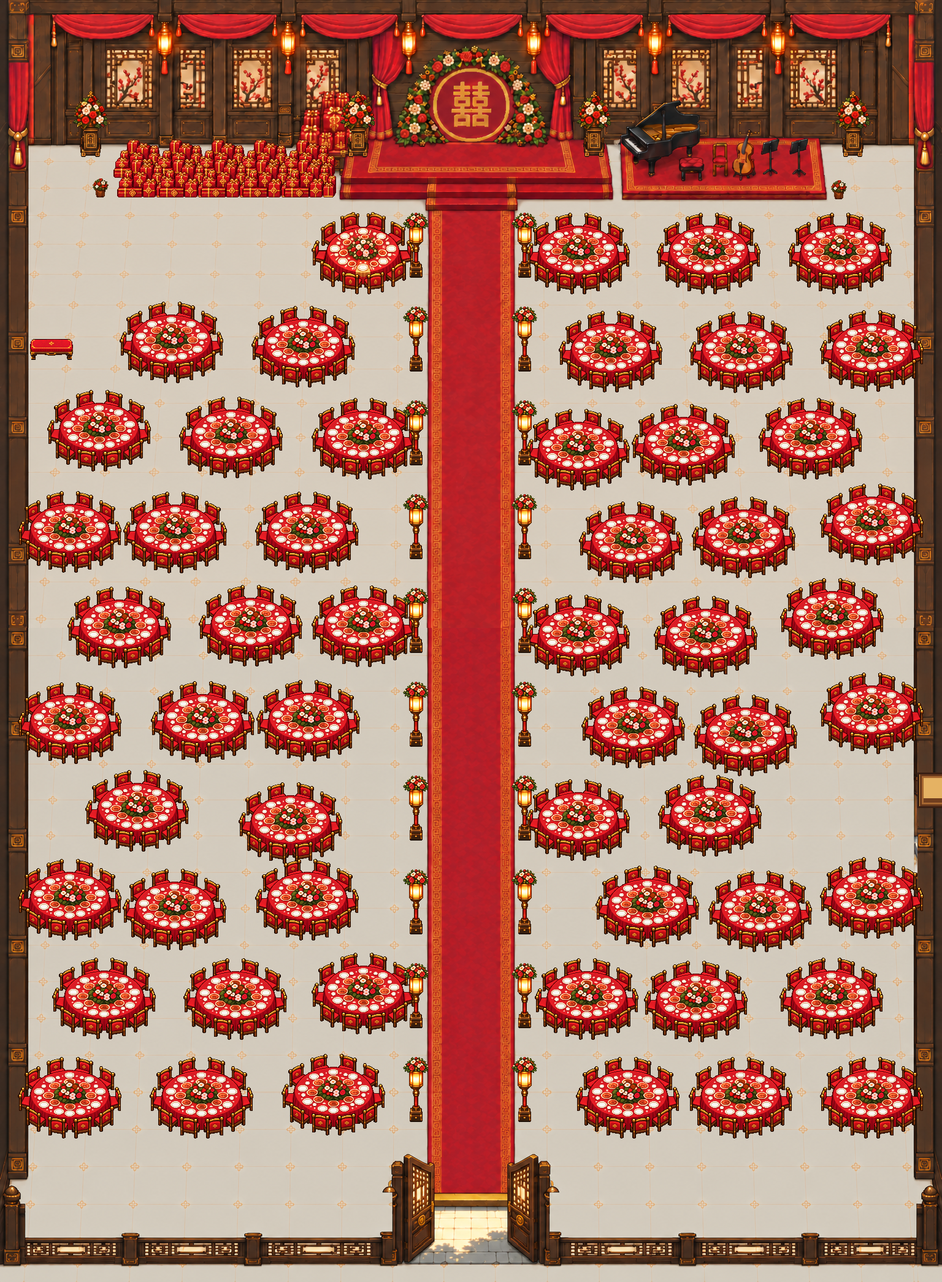
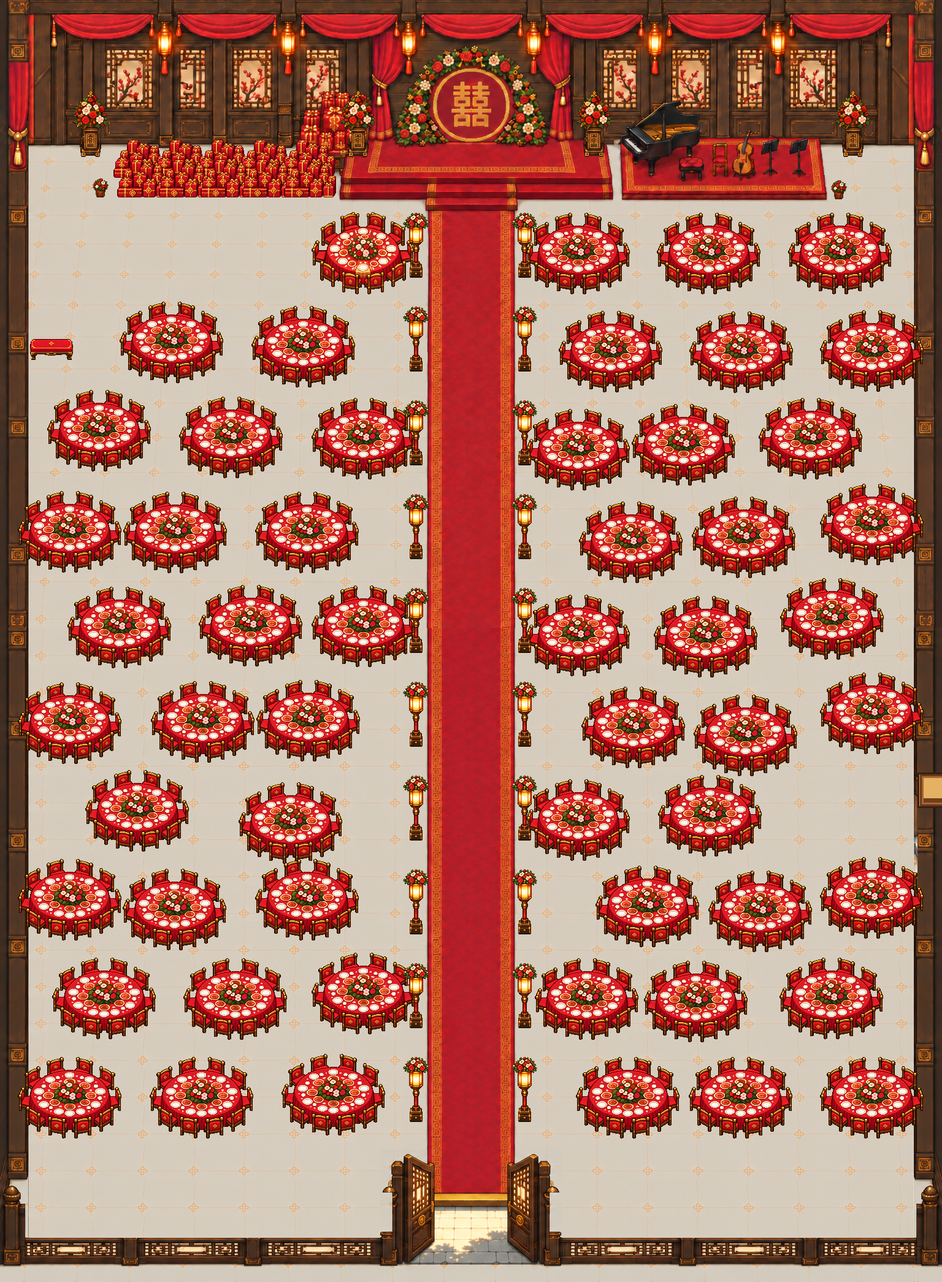
南边 BG02 换 v2（修接缝）、花瓣 FX01 和彩纸 FX02 换 v2（画满格子）：阿鱼 10/2「都行」、03 量过全对；sha256 跟交付.json 对上；gen_specs 重出场景（走路格子跟原来逐格一样，北南接缝 3.3→2.0）；零件总表这三行改「阿鱼点头」。客户端 45 个全过

diff --git a/godot/tools/layout_55/build_graybox55.py b/godot/tools/layout_55/build_graybox55.py
@@ -61,7 +61,7 @@ if ART_SET == "b55s":
     # 10/2 GPT 照色块画的南边 B55S-BG02（1536×1067，整厅 y 1024～2091）：北边 1024 往南直接接它，中间不再留一截地砖；
     # 大门、栏杆、东侧门画在整厅同一个位置（02 拿摆位表的框套过：门柱、门洞、门槛、栏杆、东侧门 1260～1318 都对上），
     # 所以下面 SOUTH_* 那些坐标照旧（还是按「南边那张上沿 = 厅长 − 1024」算的整厅坐标）。W01 现在被南边那张整个盖住，铺不铺都看不见
-    ART_SOUTH = os.path.join(ART, "base_banquet55s_south_v1.png")
+    ART_SOUTH = os.path.join(ART, "base_banquet55s_south_v2.png")   # 10/2 BG02 v2（修接缝，阿鱼「都行」）
 ART_WALL_W = os.path.join(ART, "tex_banquet55_wall_west_v1.png")   # 中间那截的竖墙，40×240 一段段接
 ART_WALL_E = os.path.join(ART, "tex_banquet55_wall_east_v1.png")
 if ART_SET == "b55s":

diff --git a/docs/零件总表.md b/docs/零件总表.md
@@ -55,7 +55,7 @@
 | 编号 | 名字 | 文件 | 尺寸 | 状态 | 进游戏 | 长什么样 | 依哪条规矩 |
 | --- | --- | --- | --- | --- | --- | --- | --- |
 | B55S-BG01 | 现场版北边背景 | `base_banquet55_scene_v1.png` | 1536×1024 | 进游戏 | 第 54 版 | 照色块图画的北边那块：北墙、帐幔、挂灯、花窗、花拱囍字、婚礼台台阶、红毯、乐队台和钢琴、礼物架、两边墙、地砖；没有桌椅、灯、花架、人；不要对联（阿鱼 10/2） | 墙和地面的边照现状图不挪（走路格子照它算）；背景宽 1536 |
-| B55S-BG02 | 现场版南边背景 | `base_B55S-BG02_v1.png` | 1536×1067 | 进游戏 | 第 54 版 | 整厅 y 1024～2091：两边直墙、东侧门、红毯、大门门槛、两段栏杆、跟北边一样的地砖；没有桌椅灯人 | 上沿跟 BG01 接得上看不出缝；墙 40 宽笔直；任务 `claude-任务-宴会厅南-照色块画.md` |
+| B55S-BG02 | 现场版南边背景 | `base_B55S-BG02_v2.png` | 1536×1067 | 阿鱼点头 | 第 54、55 版是 v1；v2 下一版进（阿鱼 10/2「都行」，03 量过） | 整厅 y 1024～2091：两边直墙、东侧门、红毯、大门门槛、两段栏杆、跟北边一样的地砖；没有桌椅灯人 | 上沿跟 BG01 接得上看不出缝；墙 40 宽笔直；任务 `claude-任务-宴会厅南-照色块画.md` |
 | B55S-T01 | 现场版圆桌 | `blk_banquet55s_table_v1.png` | 180×150 | 进游戏 | 第 54 版 | 圆桌连一圈 10 把空椅子、桌上的菜；画满框，椅子位置跟现在游戏里的桌子一样（人要坐上去） | 零件硬边 0/255、不带字；脚踩画布下沿 |
 | B55S-T02 | 现场版主桌 | `blk_banquet55s_table_main_v1.png` | 180×150 | 进游戏 | 第 54 版 | 跟圆桌一样大，桌布桌花讲究一点 | 同上 |
 | B55S-P01 | 落地灯（路引） | `blk_banquet55s_aisle_post_v1.png` | 48×112 | 进游戏 | 第 54 版 | 红毯两边那种灯柱加花球，一根 | 同上；落地宫灯高 77～86（§15） |
@@ -67,8 +67,8 @@
 | B55S-W02 | 现场版西边竖墙 | `tex_banquet55s_wall_west_v1.png` | 40×240 | 进游戏 | 第 53 版（第 54 版起不用：南边 BG02 从 1024 往南整截盖住，北边背景的墙画到底，中间没有竖墙要接） | 跟北边新背景的西墙一个样子，一段段竖着接 | 瓦片规格 40×240，上下接得上 |
 | B55S-W03 | 现场版东边竖墙 | `tex_banquet55s_wall_east_v1.png` | 40×240 | 进游戏 | 第 53 版（第 54 版起不用：南边 BG02 从 1024 往南整截盖住，北边背景的墙画到底，中间没有竖墙要接） | 跟北边新背景的东墙一个样子，一段段竖着接 | 同上 |
 | B55S-P06 | 路引红绸 | `blk_B55S-P06_v1.png` | 480×56（3 格 160×56） | 进游戏 | 第 54 版 | 红毯两边灯柱花冠里侧之间挂一道红绸、中间一个红绣球，三格来回晃 | 硬边 0/255、不带字；挂点 (11,6)、(148,6)；任务 `claude-任务-宴会厅彩带.md` |
-| B55S-FX01 | 花瓣 | `fx_B55S-FX01_v1.png` | 48×48（12×12，4 色×4 帧） | 进游戏 | 第 54 版 | 开席、进厅、干杯时飘的花瓣 | 同上；1 像素深色描边 |
-| B55S-FX02 | 彩纸 | `fx_B55S-FX02_v1.png` | 40×60（10×10，6 色×4 帧） | 进游戏 | 第 54 版 | 开席、进厅时飘的小方纸片 | 同上（03 量过 8×8 手机上太小，01 定 10×10） |
+| B55S-FX01 | 花瓣 | `fx_B55S-FX01_v2.png` | 48×48（12×12，4 色×4 帧） | 阿鱼点头 | 第 54、55 版是 v1；v2 下一版进（阿鱼 10/2「都行」，03 量过） | 开席、进厅、干杯时飘的花瓣 | 同上；1 像素深色描边 |
+| B55S-FX02 | 彩纸 | `fx_B55S-FX02_v2.png` | 40×60（10×10，6 色×4 帧） | 阿鱼点头 | 第 54、55 版是 v1；v2 下一版进（阿鱼 10/2「都行」，03 量过） | 开席、进厅时飘的小方纸片 | 同上（03 量过 8×8 手机上太小，01 定 10×10） |
 | B55S-FX03 | 卷彩带 | `fx_B55S-FX03_v1.png` | 64×96（16×32，3 色×4 帧） | 进游戏 | 第 54 版 | 开席时飘的细长卷带 | 同上 |
 
 ## 罗曼山庄的人（`LM`，全山庄共用，按身份分组）
